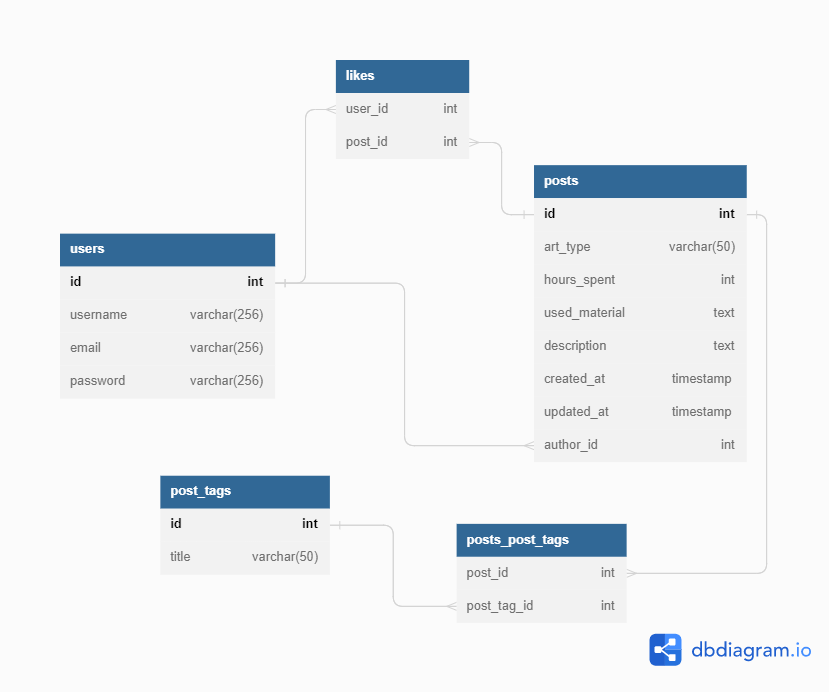
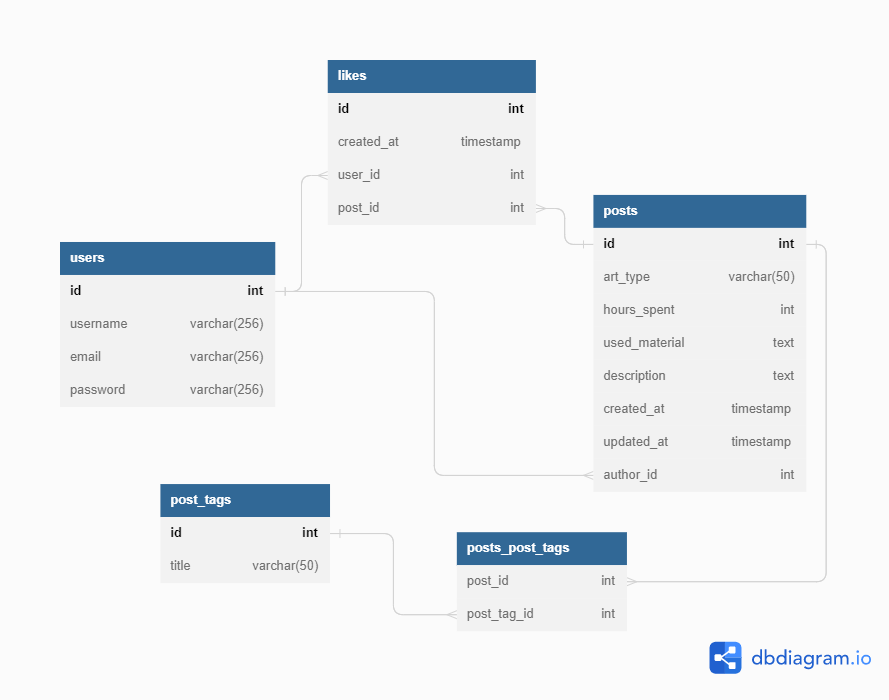
+ migrations

diff --git a/web/migrations/0001_initial.py b/web/migrations/0001_initial.py
@@ -1,0 +1,44 @@
+# Generated by Django 4.1.5 on 2023-02-18 17:49
+
+from django.conf import settings
+from django.db import migrations, models
+import django.db.models.deletion
+
+
+class Migration(migrations.Migration):
+
+    initial = True
+
+    dependencies = [
+        migrations.swappable_dependency(settings.AUTH_USER_MODEL),
+    ]
+
+    operations = [
+        migrations.CreateModel(
+            name='PostTag',
+            fields=[
+                ('id', models.BigAutoField(auto_created=True, primary_key=True, serialize=False, verbose_name='ID')),
+                ('title', models.CharField(max_length=50)),
+            ],
+        ),
+        migrations.CreateModel(
+            name='Post',
+            fields=[
+                ('id', models.BigAutoField(auto_created=True, primary_key=True, serialize=False, verbose_name='ID')),
+                ('art_type', models.CharField(max_length=50)),
+                ('created_at', models.DateTimeField()),
+                ('updated_at', models.DateTimeField()),
+                ('author', models.ForeignKey(on_delete=django.db.models.deletion.CASCADE, to=settings.AUTH_USER_MODEL)),
+                ('tags', models.ManyToManyField(to='web.posttag')),
+            ],
+        ),
+        migrations.CreateModel(
+            name='Like',
+            fields=[
+                ('id', models.BigAutoField(auto_created=True, primary_key=True, serialize=False, verbose_name='ID')),
+                ('created_at', models.DateTimeField()),
+                ('post', models.ForeignKey(on_delete=django.db.models.deletion.CASCADE, to='web.post')),
+                ('user', models.ForeignKey(on_delete=django.db.models.deletion.CASCADE, to=settings.AUTH_USER_MODEL)),
+            ],
+        ),
+    ]

diff --git a/web/models.py b/web/models.py
@@ -18,4 +18,11 @@ class Post(models.Model):
     updated_at = models.DateTimeField()
     author = models.ForeignKey(User, on_delete=models.CASCADE)
     tags = models.ManyToManyField(PostTag)
-    likes = models.ManyToManyField(User)
+    # todo require
+    artwork = models.ImageField(upload_to='artworks/', null=True, blank=True)
+
+
+class Like(models.Model):
+    created_at = models.DateTimeField()
+    user = models.ForeignKey(User, on_delete=models.CASCADE)
+    post = models.ForeignKey(Post, on_delete=models.CASCADE)

diff --git a/web/migrations/0002_post_artwork.py b/web/migrations/0002_post_artwork.py
@@ -1,0 +1,18 @@
+# Generated by Django 4.1.5 on 2023-02-18 18:27
+
+from django.db import migrations, models
+
+
+class Migration(migrations.Migration):
+
+    dependencies = [
+        ('web', '0001_initial'),
+    ]
+
+    operations = [
+        migrations.AddField(
+            model_name='post',
+            name='artwork',
+            field=models.ImageField(blank=True, null=True, upload_to='artworks/'),
+        ),
+    ]

diff --git a/yartone/settings.py b/yartone/settings.py
@@ -37,6 +37,7 @@ INSTALLED_APPS = [
     'django.contrib.sessions',
     'django.contrib.messages',
     'django.contrib.staticfiles',
+    'web'
 ]
 
 MIDDLEWARE = [
